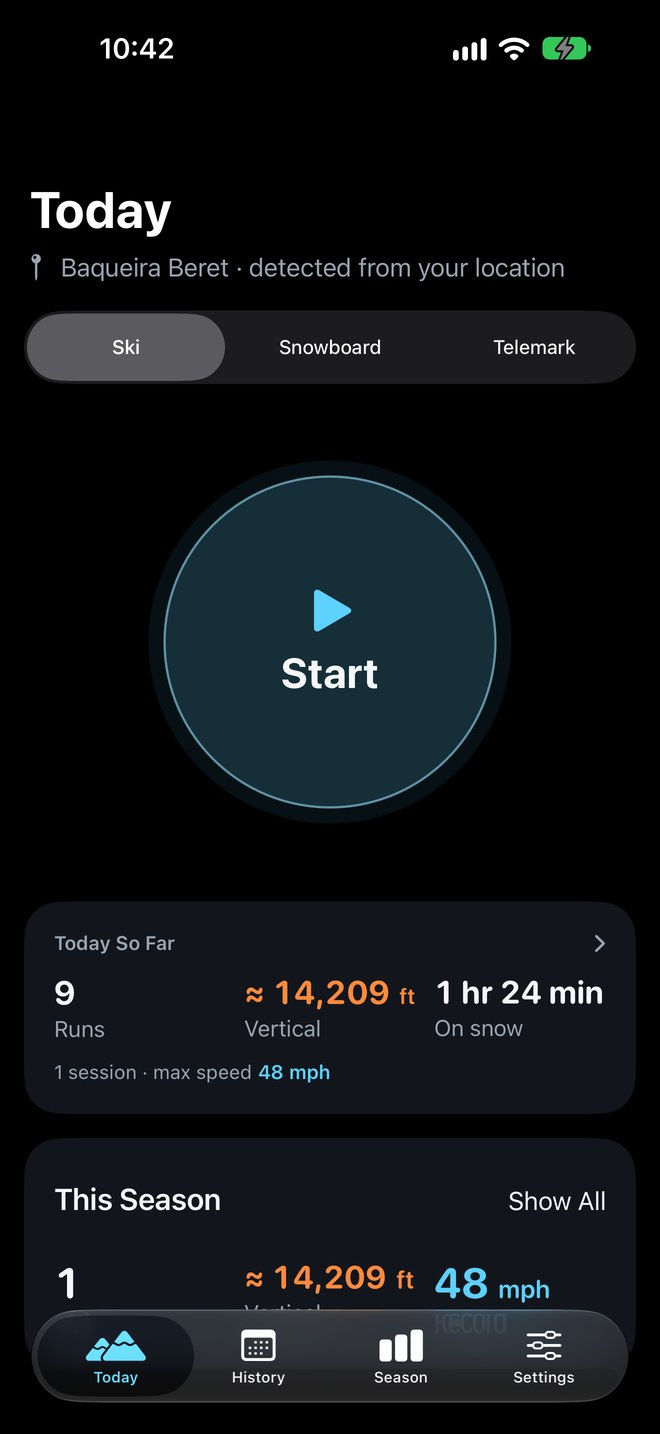
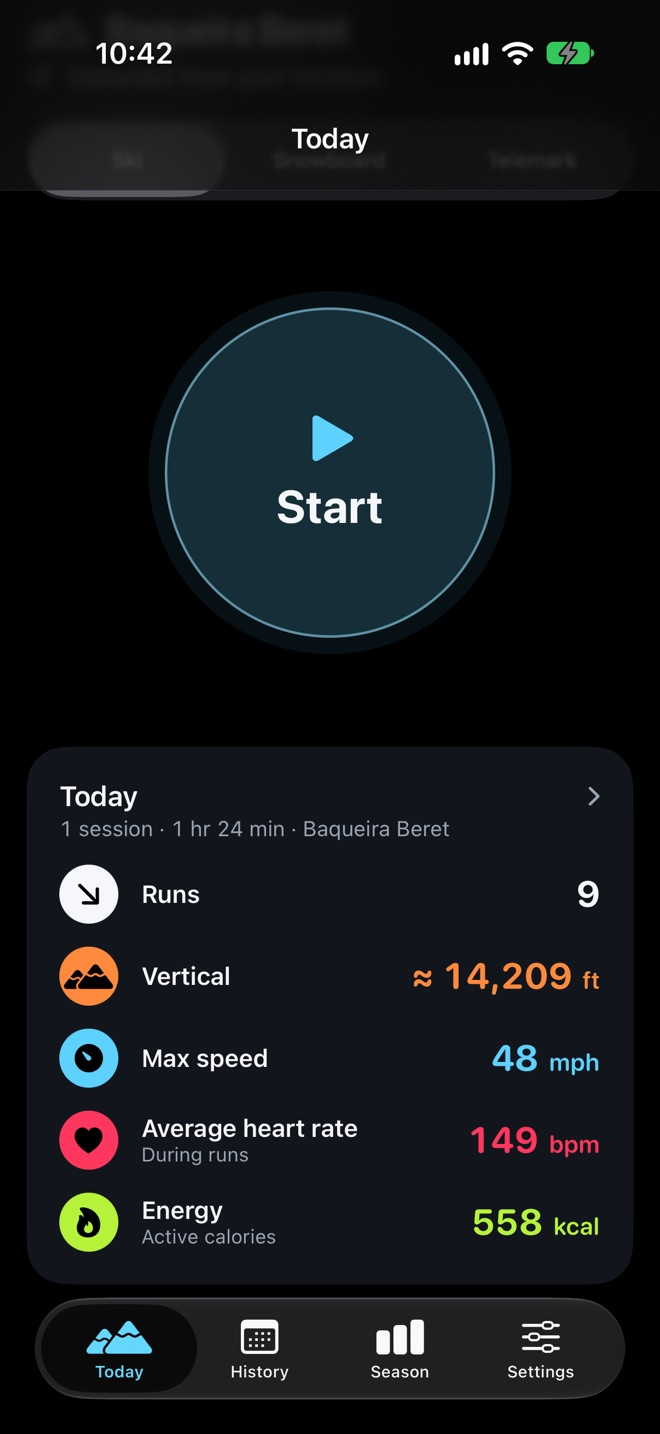
Captura y texto de Hoy: la tarjeta del día, sin «Esta temporada»

diff --git a/en/index.html b/en/index.html
@@ -132,10 +132,10 @@
     <div class="texto">
       <span class="antetitulo">Today</span>
       <h2>It knows which <span>resort you’re at.</span></h2>
-      <p>When you open the app, Today tells you which resort you’re at, what you’ve done so far today and how your season is going. Choose ski, snowboard or telemark and start.</p>
+      <p>When you open the app, Today tells you which resort you’re at, what you’ve done so far today or, if you haven’t skied today, your last day: runs, vertical, max speed and, with Apple Watch, heart rate and kcal. Choose ski, snowboard or telemark and start.</p>
     </div>
     <div class="telefonos">
-      <div class="telefono"><img src="../img/en/06-hoy.jpg" alt="Today: Baqueira Beret, detected from your location, with the Start button" loading="lazy"></div>
+      <div class="telefono"><img src="../img/en/06-hoy.jpg" alt="Today: Baqueira Beret, detected from your location, the Start button and the day card" loading="lazy"></div>
     </div>
   </section>
 

diff --git a/index.html b/index.html
@@ -132,10 +132,10 @@
     <div class="texto">
       <span class="antetitulo">Hoy</span>
       <h2>Sabe en qué <span>estación estás.</span></h2>
-      <p>Al abrir la app, Hoy te dice en qué estación estás, lo que llevas en el día y cómo vas en la temporada. Elige esquí, snowboard o telemark y empieza.</p>
+      <p>Al abrir la app, Hoy te dice en qué estación estás, lo que llevas en el día o, si hoy no has esquiado, tu último día: bajadas, desnivel, velocidad máxima y, con Apple Watch, pulso y kcal. Elige esquí, snowboard o telemark y empieza.</p>
     </div>
     <div class="telefonos">
-      <div class="telefono"><img src="img/06-hoy.jpg" alt="Hoy: Baqueira Beret, detectada por tu ubicación, con el botón Empezar" loading="lazy"></div>
+      <div class="telefono"><img src="img/06-hoy.jpg" alt="Hoy: Baqueira Beret, detectada por tu ubicación, el botón Empezar y la tarjeta del día" loading="lazy"></div>
     </div>
   </section>
 
